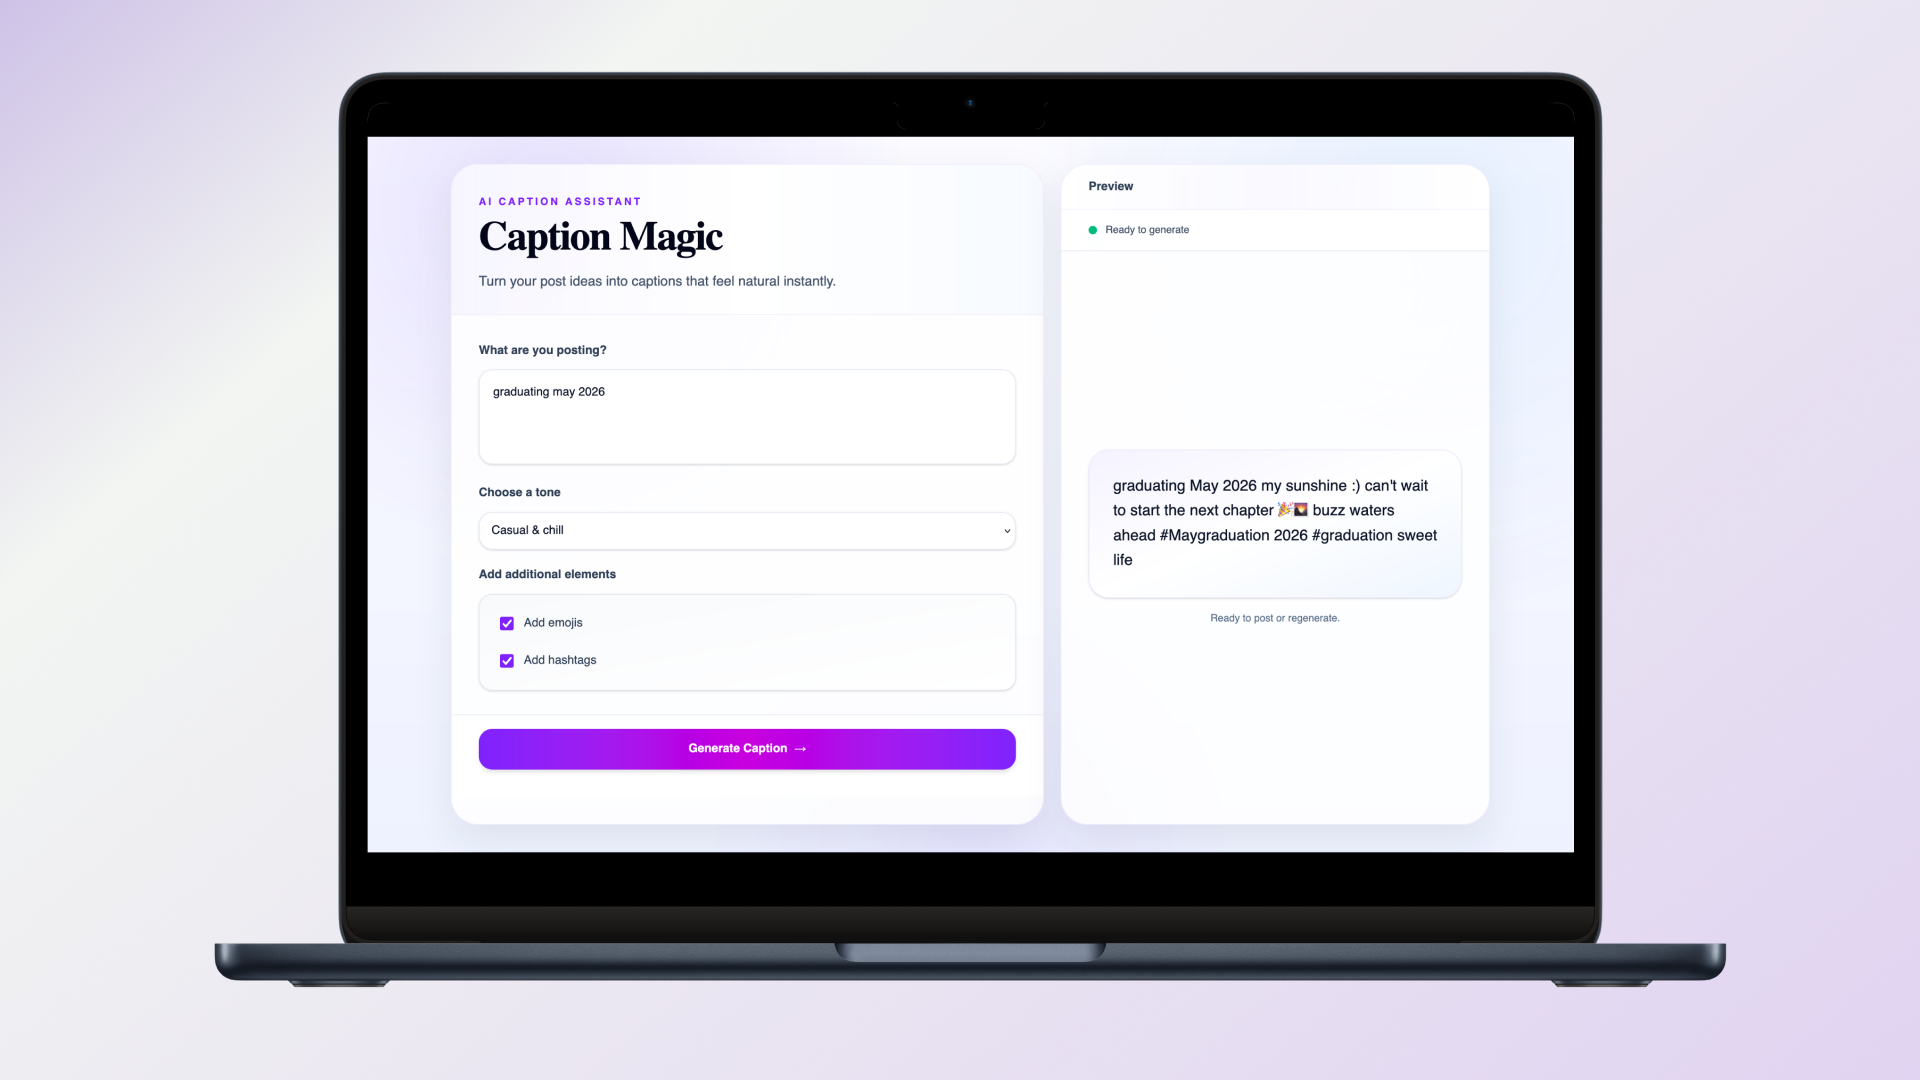
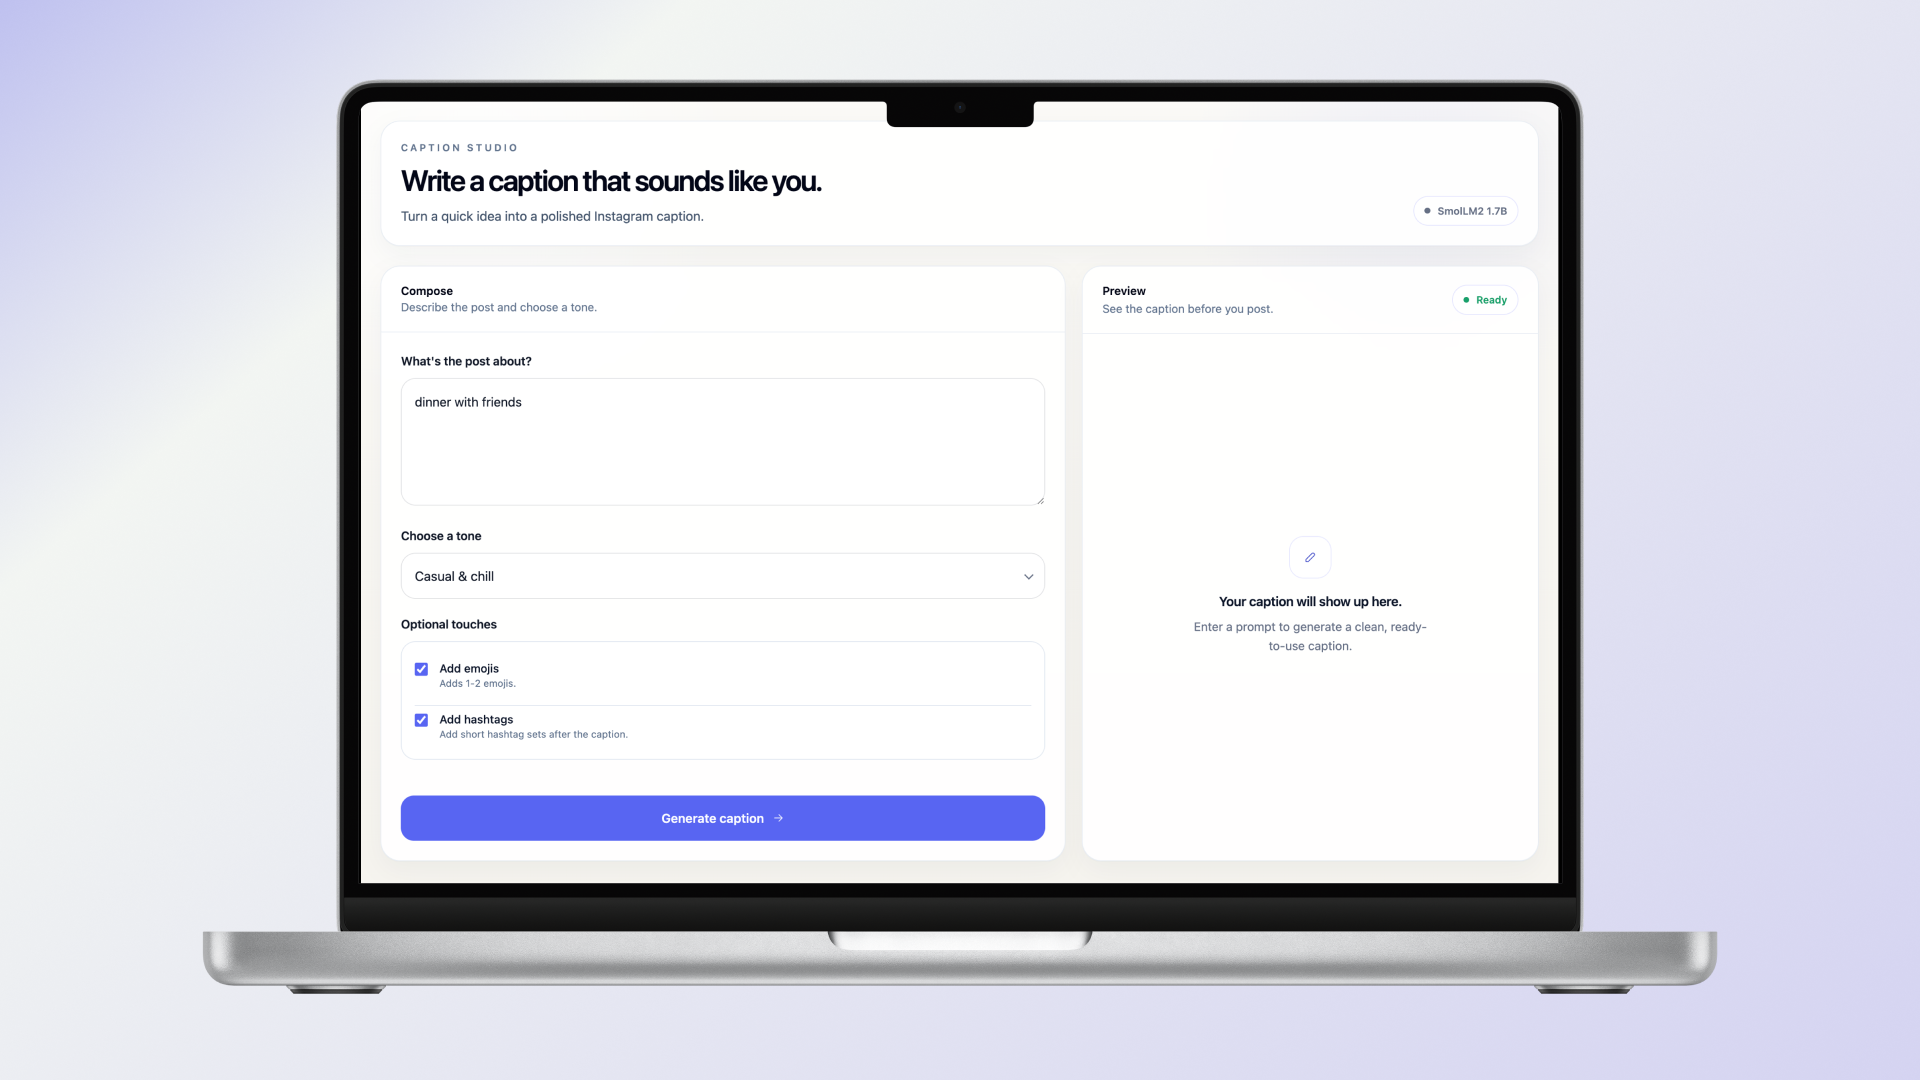
update caption project

diff --git a/about.html b/about.html
@@ -70,7 +70,7 @@
                 <img src="images/about/casualheadshot.jpg" alt="Photo of Ashley Huang" class="about-photo">
                 <div class="about-intro-text">
                     <h1>Hi there, I'm Ashley Huang!</h1>
-                    <p>I'm a senior at Cornell University studying Information Science with Concentrations in UX Design and Behaviorial Science. My journey has been driven by a fascination with technology's potential to create meaningful and user-centric solutions.</p>
+                    <p>I'm a recent graduate at Cornell University studying Information Science with Concentrations in UX Design and Behaviorial Science. My journey has been driven by a fascination with technology's potential to create meaningful and user-centric solutions.</p>
                     <p>From a young age, my creative journey was shaped by my education in arts-focused middle and high schools, where music was central to my life. This background instilled in me a passion for innovation and design, which has guided my exploration into fields like data science, network security, and product design.</p>
                     <p>This journey has culminated in my current focus on product design, where I blend my technical skills with creative thinking to craft innovative solutions and create user-centered designs that are both functional and engaging.</p>
 
@@ -153,7 +153,7 @@
             </div>
     </div>
     </footer>
-    <p class="footer-credit">designed & developed by Ashley Huang © 2025</p>
+    <p class="footer-credit">designed & developed by Ashley Huang © 2026</p>
 
     <script src="scripts/jquery-3.7.1.js"></script>
     <script src="scripts/hamburgermenu.js"></script>

diff --git a/projects.html b/projects.html
@@ -202,7 +202,7 @@
             </div>
     </div>
     </footer>
-        <p class="footer-credit">designed & developed by Ashley Huang © 2025</p>
+        <p class="footer-credit">designed & developed by Ashley Huang © 2026</p>
 
     <script src="scripts/jquery-3.7.1.js"></script>
     <script src="scripts/hamburgermenu.js"></script>

diff --git a/discord.html b/discord.html
@@ -671,7 +671,7 @@
       </div>
     </div>
   </footer>
-  <p class="footer-credit">designed & developed by Ashley Huang © 2025</p>
+  <p class="footer-credit">designed & developed by Ashley Huang © 2026</p>
 
   <script src="scripts/jquery-3.7.1.js"></script>
   <script src="scripts/hamburgermenu.js"></script>

diff --git a/index.html b/index.html
@@ -394,7 +394,7 @@
 
     </footer>
 
-    <p class="footer-credit">designed & developed by Ashley Huang © 2025</p>
+    <p class="footer-credit">designed & developed by Ashley Huang © 2026</p>
 
     <script src="scripts/jquery-3.7.1.js"></script>
     <script src="scripts/hamburgermenu.js"></script>

diff --git a/technical.html b/technical.html
@@ -276,7 +276,7 @@
 
     </footer>
 
-    <p class="footer-credit">designed & developed by Ashley Huang © 2025</p>
+    <p class="footer-credit">designed & developed by Ashley Huang © 2026</p>
 
     <script src="scripts/jquery-3.7.1.js"></script>
     <script src="scripts/hamburgermenu.js"></script>

diff --git a/airy.html b/airy.html
@@ -132,7 +132,7 @@
             </div>
         </div>
     </footer>
-    <p class="footer-credit">designed & developed by Ashley Huang © 2025</p>
+    <p class="footer-credit">designed & developed by Ashley Huang © 2026</p>
 
 
     <script src="scripts/jquery-3.7.1.js"></script>

diff --git a/airytechnical.html b/airytechnical.html
@@ -164,7 +164,7 @@
         </div>
     </footer>
 
-    <p class="footer-credit">designed & developed by Ashley Huang © 2025</p>
+    <p class="footer-credit">designed & developed by Ashley Huang © 2026</p>
 
 
     <script src="scripts/jquery-3.7.1.js"></script>

diff --git a/applefest.html b/applefest.html
@@ -157,7 +157,7 @@
         </div>
     </footer>
 
-    <p class="footer-credit">designed & developed by Ashley Huang © 2025</p>
+    <p class="footer-credit">designed & developed by Ashley Huang © 2026</p>
 
 
     <script src="scripts/jquery-3.7.1.js"></script>

diff --git a/campusevents.html b/campusevents.html
@@ -169,7 +169,7 @@
         </div>
     </footer>
 
-    <p class="footer-credit">designed & developed by Ashley Huang © 2025</p>
+    <p class="footer-credit">designed & developed by Ashley Huang © 2026</p>
 
 
     <script src="scripts/jquery-3.7.1.js"></script>

diff --git a/ceme.html b/ceme.html
@@ -150,7 +150,7 @@
         </div>
     </footer>
 
-    <p class="footer-credit">designed & developed by Ashley Huang © 2025</p>
+    <p class="footer-credit">designed & developed by Ashley Huang © 2026</p>
 
 
     <script src="scripts/jquery-3.7.1.js"></script>

diff --git a/cupet.html b/cupet.html
@@ -155,7 +155,7 @@
         </div>
     </footer>
 
-    <p class="footer-credit">designed & developed by Ashley Huang © 2025</p>
+    <p class="footer-credit">designed & developed by Ashley Huang © 2026</p>
 
 
     <script src="scripts/jquery-3.7.1.js"></script>

diff --git a/cemeux.html b/cemeux.html
@@ -288,7 +288,7 @@
         </div>
 </div>
 </footer>
-    <p class="footer-credit">designed & developed by Ashley Huang © 2025</p>
+    <p class="footer-credit">designed & developed by Ashley Huang © 2026</p>
 
 
 <script src="scripts/jquery-3.7.1.js"></script>
